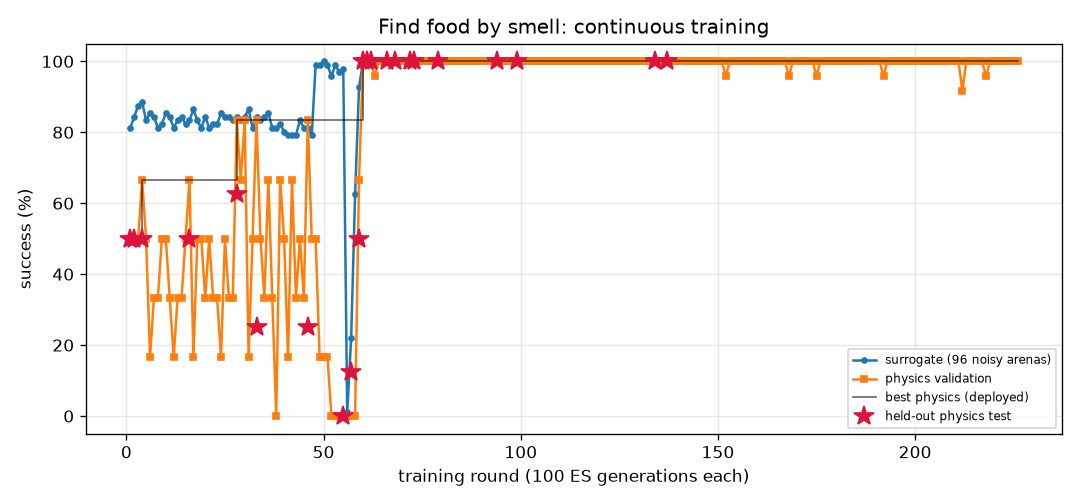
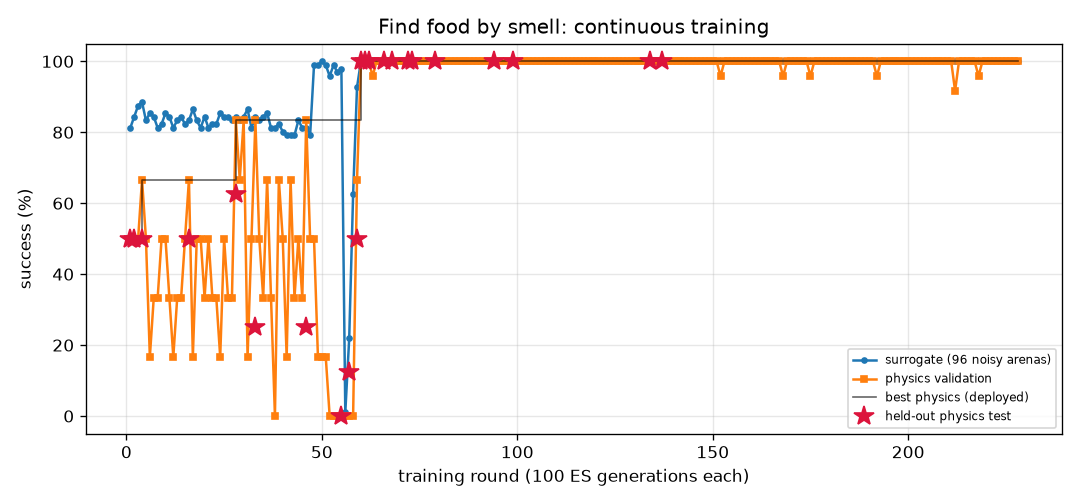
FlyLab: daily review 2026-11-09 — 7/7 optimal, training output

diff --git a/projects/09_flylab/training/turn/REPORT.md b/projects/09_flylab/training/turn/REPORT.md
@@ -1,14 +1,14 @@
 # Turn in place (`turn`) — training report
 
-*Auto-generated by `train_brains.py`, last updated 2026-11-09T18:42:57.*
+*Auto-generated by `train_brains.py`, last updated 2026-11-09T19:15:41.*
 
 ![curve](curve.png)
 
 | | |
 |---|---|
-| rounds | 965 |
-| ES generations | 96500 |
-| physics runs | 23406 |
+| rounds | 970 |
+| ES generations | 97000 |
+| physics runs | 23526 |
 | status | **optimal** |
 | best brain | round 80: physics validation **100%** on 24 arenas, surrogate 100% |
 | held-out physics test | **97%** on 32 unseen arenas (95% CI 84%-99%) (errors: [1.6, 3.3, 6.3, 3.7, 1.1, 0.4, 2.4, 2.9, 0.1, 2.6, 0.5, 2.7, 1.5, 3.1, 4.5, 0.2, 0.5, 1.1, 2.0, 4.4, 2.8, 3.2, 0.3, 2.2, 0.5, 3.0, 0.3, 5.4, 0.4, 1.0, 4.7, 10.7]) |
@@ -17,11 +17,6 @@ Physics error per arena: deg from target heading (< 20 = success).
 
 | round | level | gens | sigma | surrogate | physics val | val errors | test | note |
 |---:|---:|---:|---:|---:|---:|---|---:|---|
-| 926 | 3 | 92600 | 0.025 | 99% | 96% | [4.9, 4.7, 3.0, 0.4, 1.4, 117.7, 3.6, 7.7, 6.0, 0.8, 3.9, 1.3, 3.6, 2.4, 2.7, 0.6, 0.9, 1.3, 2.2, 6.9, 5.0, 0.8, 5.4, 6.2] |  |  |
-| 927 | 3 | 92700 | 0.025 | 98% | 83% | [1.7, 3.6, 5.2, 1.0, 2.6, 3.3, 7.2, 4.4, 7.2, 1.7, 5.7, 0.9, 0.2, 1.6, 4.6, 2.5, 0.7, 1.2, 3.9, 8.5, 4.7, 0.9, 4.4, 3.0] |  |  |
-| 928 | 3 | 92800 | 0.025 | 100% | 83% | [1.6, 2.2, 4.1, 3.2, 0.1, 0.5, 7.1, 8.3, 6.1, 0.7, 5.4, 1.1, 0.4, 2.1, 5.0, 3.2, 0.9, 1.5, 3.3, 1.7, 3.1, 1.4, 6.9, 1.8] |  | restart from best |
-| 929 | 3 | 92900 | 0.024 | 100% | 83% | [7.8, 8.1, 5.2, 1.6, 12.0, 1.3, 4.8, 1.3, 3.9, 0.9, 3.1, 2.5, 1.1, 4.5, 4.3, 1.0, 2.4, 0.1, 1.2, 0.7, 7.1, 0.5, 4.2, 3.5] |  |  |
-| 930 | 3 | 93000 | 0.024 | 99% | 79% | [2.9, 7.4, 2.8, 0.4, 1.8, 1.6, 3.4, 2.4, 5.5, 0.2, 4.0, 0.5, 1.5, 0.9, 3.8, 1.0, 0.6, 0.6, 1.2, 1.6, 3.9, 2.9, 4.2, 5.3] |  |  |
 | 931 | 3 | 93100 | 0.025 | 100% | 88% | [7.1, 10.7, 0.9, 1.1, 3.8, 1.5, 3.3, 5.1, 2.4, 3.0, 3.0, 3.0, 0.5, 5.4, 2.8, 2.6, 2.6, 1.2, 3.8, 1.8, 4.9, 3.6, 2.5, 6.2] |  |  |
 | 932 | 3 | 93200 | 0.024 | 100% | 75% | [5.5, 7.9, 6.3, 0.3, 2.2, 1.1, 5.3, 5.4, 3.3, 0.6, 3.7, 1.0, 0.7, 2.5, 4.0, 1.2, 0.9, 0.7, 0.5, 0.3, 3.4, 1.2, 5.4, 2.7] |  | restart from best |
 | 933 | 3 | 93300 | 0.024 | 99% | 71% | [6.7, 9.2, 7.6, 2.7, 6.2, 0.8, 3.0, 5.7, 1.8, 0.3, 2.8, 3.2, 3.2, 5.8, 2.7, 0.2, 3.7, 0.6, 0.8, 0.4, 6.8, 3.7, 4.2, 1.4] |  |  |
@@ -57,3 +52,8 @@ Physics error per arena: deg from target heading (< 20 = success).
 | 963 | 3 | 96300 | 0.027 | 99% | 79% | [1.8, 5.4, 7.5, 1.1, 1.0, 6.4, 8.1, 8.7, 7.6, 1.9, 6.6, 3.9, 1.5, 0.1, 5.7, 10.7, 4.2, 5.2, 14.5, 6.9, 1.8, 3.0, 8.5, 6.8] |  |  |
 | 964 | 3 | 96400 | 0.025 | 100% | 100% | [3.8, 8.8, 8.4, 5.1, 3.2, 2.9, 1.2, 3.9, 0.9, 4.4, 1.6, 3.0, 5.1, 5.8, 0.5, 4.7, 3.0, 4.1, 4.5, 4.1, 4.6, 1.7, 0.7, 7.5] |  | restart from best |
 | 965 | 3 | 96500 | 0.024 | 99% | 83% | [6.4, 4.8, 5.7, 0.1, 19.2, 17.2, 5.7, 6.2, 7.3, 1.8, 5.3, 2.8, 0.4, 2.3, 4.4, 17.3, 1.5, 5.7, 3.8, 17.2, 103.5, 3.1, 7.2, 7.9] |  |  |
+| 966 | 3 | 96600 | 0.025 | 99% | 83% | [0.2, 0.2, 5.4, 0.5, 2.7, 2.5, 6.5, 9.6, 9.0, 4.2, 5.9, 2.1, 0.9, 0.9, 6.0, 2.3, 2.1, 2.0, 2.4, 4.0, 2.2, 1.5, 7.3, 1.3] |  |  |
+| 967 | 3 | 96700 | 0.025 | 98% | 75% | [5.6, 5.4, 15.8, 0.2, 4.9, 6.0, 9.1, 4.9, 8.1, 2.3, 6.0, 2.5, 0.9, 1.1, 7.3, 4.4, 2.4, 5.8, 5.0, 4.3, 0.9, 1.6, 8.2, 7.3] |  |  |
+| 968 | 3 | 96800 | 0.025 | 100% | 75% | [4.5, 6.8, 5.3, 0.4, 14.2, 3.7, 7.5, 10.1, 7.4, 3.5, 7.2, 3.1, 2.3, 0.7, 6.9, 3.9, 3.2, 4.3, 3.8, 4.3, 2.2, 4.2, 8.2, 6.9] |  | restart from best |
+| 969 | 3 | 96900 | 0.024 | 97% | 92% | [4.2, 5.8, 2.4, 3.7, 5.0, 0.8, 2.7, 6.6, 4.7, 0.8, 2.9, 0.8, 1.7, 3.7, 3.1, 1.1, 0.6, 0.0, 1.2, 1.0, 5.2, 0.1, 4.3, 4.0] |  |  |
+| 970 | 3 | 97000 | 0.026 | 99% | 79% | [4.9, 3.7, 4.7, 2.1, 0.2, 3.0, 6.9, 2.4, 5.8, 0.1, 4.9, 0.2, 1.6, 1.0, 5.7, 2.9, 0.3, 3.8, 2.8, 2.7, 4.9, 0.3, 5.2, 8.5] |  |  |

diff --git a/projects/09_flylab/training/odor_seek/REPORT.md b/projects/09_flylab/training/odor_seek/REPORT.md
@@ -1,14 +1,14 @@
 # Find food by smell (`odor_seek`) — training report
 
-*Auto-generated by `train_brains.py`, last updated 2026-11-09T18:32:41.*
+*Auto-generated by `train_brains.py`, last updated 2026-11-09T19:07:03.*
 
 ![curve](curve.png)
 
 | | |
 |---|---|
-| rounds | 226 |
-| ES generations | 22600 |
-| physics runs | 4854 |
+| rounds | 228 |
+| ES generations | 22800 |
+| physics runs | 4902 |
 | status | **optimal** |
 | best brain | round 137: physics validation **100%** on 24 arenas, surrogate 100% |
 | held-out physics test | **100%** on 32 unseen arenas (95% CI 89%-100%) (errors: [0.14, 0.05, 0.19, 0.15, 0.13, 0.08, 0.06, 0.06, 0.04, 0.06, 0.02, 0.11, 0.05, 0.1, 0.06, 0.01, 0.11, 0.12, 0.14, 0.08, 0.12, 0.06, 0.06, 0.09, 0.12, 0.05, 0.07, 0.07, 0.12, 0.11, 0.06, 0.11]) |
@@ -17,8 +17,6 @@ Physics error per arena: mm from target at the end (< 1.5 and standing still = s
 
 | round | level | gens | sigma | surrogate | physics val | val errors | test | note |
 |---:|---:|---:|---:|---:|---:|---|---:|---|
-| 187 | 3 | 18700 | 0.024 | 100% | 100% | [0.12, 0.18, 0.18, 0.15, 0.17, 0.09, 0.18, 0.2, 0.19, 0.18, 0.28, 0.15, 0.14, 0.18, 0.2, 0.15, 0.16, 0.17, 0.12, 0.19, 0.19, 0.17, 0.19, 0.2] |  |  |
-| 188 | 3 | 18800 | 0.024 | 100% | 100% | [0.12, 0.17, 0.13, 0.12, 0.17, 0.16, 0.11, 0.13, 0.12, 0.14, 0.17, 0.16, 0.19, 0.17, 0.14, 0.12, 0.1, 0.17, 0.12, 0.06, 0.16, 0.16, 0.2, 0.18] |  |  |
 | 189 | 3 | 18900 | 0.024 | 100% | 100% | [0.16, 0.16, 0.14, 0.19, 0.12, 0.08, 0.12, 0.2, 0.12, 0.16, 0.17, 0.2, 0.16, 0.22, 0.18, 0.16, 0.2, 0.18, 0.17, 0.12, 0.13, 0.15, 0.18, 0.19] |  | restart from best |
 | 190 | 3 | 19000 | 0.024 | 100% | 100% | [0.19, 0.17, 0.11, 0.12, 0.1, 0.14, 0.12, 0.18, 0.2, 0.12, 0.18, 0.08, 0.07, 0.18, 0.2, 0.08, 0.09, 0.09, 0.15, 0.14, 0.14, 0.14, 0.07, 0.16] |  |  |
 | 191 | 3 | 19100 | 0.024 | 100% | 100% | [0.1, 0.09, 0.14, 0.09, 0.1, 0.1, 0.08, 0.15, 0.1, 0.1, 0.09, 0.1, 0.08, 0.09, 0.08, 0.08, 0.11, 0.13, 0.17, 0.09, 0.11, 0.16, 0.14, 0.13] |  |  |
@@ -57,3 +55,5 @@ Physics error per arena: mm from target at the end (< 1.5 and standing still = s
 | 224 | 3 | 22400 | 0.024 | 100% | 100% | [0.13, 0.14, 0.08, 0.15, 0.18, 0.12, 0.08, 0.17, 0.08, 0.1, 0.12, 0.08, 0.09, 0.17, 0.18, 0.13, 0.08, 0.14, 0.2, 0.13, 0.16, 0.08, 0.11, 0.09] |  |  |
 | 225 | 3 | 22500 | 0.024 | 100% | 100% | [0.04, 0.13, 0.1, 0.09, 0.05, 0.09, 0.07, 0.11, 0.04, 0.13, 0.04, 0.09, 0.15, 0.09, 0.09, 0.13, 0.09, 0.06, 0.11, 0.07, 0.09, 0.16, 0.08, 0.09] |  | restart from best |
 | 226 | 3 | 22600 | 0.024 | 100% | 100% | [0.13, 0.1, 0.03, 0.11, 0.07, 0.1, 0.02, 0.11, 0.06, 0.05, 0.02, 0.11, 0.02, 0.13, 0.04, 0.08, 0.04, 0.07, 0.06, 0.12, 0.16, 0.15, 0.02, 0.1] |  |  |
+| 227 | 3 | 22700 | 0.024 | 100% | 100% | [0.13, 0.15, 0.15, 0.11, 0.04, 0.12, 0.16, 0.14, 0.21, 0.08, 0.18, 0.16, 0.2, 0.14, 0.18, 0.07, 0.09, 0.12, 0.15, 0.15, 0.19, 0.2, 0.23, 0.15] |  |  |
+| 228 | 3 | 22800 | 0.024 | 100% | 100% | [0.16, 0.21, 0.12, 0.13, 0.16, 0.19, 0.13, 0.27, 0.22, 0.12, 0.13, 0.14, 0.09, 0.11, 0.16, 0.11, 0.13, 0.13, 0.19, 0.18, 0.12, 0.11, 0.2, 0.1] |  |  |

diff --git a/projects/09_flylab/training/odor_avoid/REPORT.md b/projects/09_flylab/training/odor_avoid/REPORT.md
@@ -1,14 +1,14 @@
 # Escape a bad smell (`odor_avoid`) — training report
 
-*Auto-generated by `train_brains.py`, last updated 2026-11-09T15:46:49.*
+*Auto-generated by `train_brains.py`, last updated 2026-11-09T19:16:02.*
 
 ![curve](curve.png)
 
 | | |
 |---|---|
-| rounds | 860 |
-| ES generations | 86000 |
-| physics runs | 17946 |
+| rounds | 861 |
+| ES generations | 86100 |
+| physics runs | 17970 |
 | status | **optimal** |
 | best brain | round 373: physics validation **100%** on 24 arenas, surrogate 97% |
 | held-out physics test | **97%** on 32 unseen arenas (95% CI 84%-99%) (errors: [62.0, 57.4, 62.6, 61.9, 59.0, 61.6, 56.5, 60.7, 31.7, 60.9, 63.1, 57.1, 61.1, 62.1, 61.5, 60.2, 62.2, 55.2, 62.1, 54.2, 61.3, 62.0, 58.0, 61.9, 59.8, 56.5, 56.3, 56.4, 56.3, 57.7, 61.9, 32.4]) |
@@ -17,7 +17,6 @@ Physics error per arena: mm gained away from source (> 6 without first approachi
 
 | round | level | gens | sigma | surrogate | physics val | val errors | test | note |
 |---:|---:|---:|---:|---:|---:|---|---:|---|
-| 821 | 3 | 82100 | 0.027 | 97% | 96% | [62.6, 56.2, 56.3, 56.3, 61.4, 61.6, 60.2, 49.4, 60.2, 61.2, 61.7, 61.3, 55.0, 56.0, 42.2, 60.9, 61.6, 61.8, 54.8, 58.0, 61.3, 60.4, 60.9, 62.0] |  | restart from best |
 | 822 | 3 | 82200 | 0.026 | 97% | 100% | [63.3, 61.1, 57.4, 57.0, 62.3, 60.7, 61.8, 55.7, 60.8, 60.3, 62.1, 61.6, 55.2, 57.7, 45.1, 62.0, 62.4, 61.8, 54.9, 58.4, 62.4, 60.6, 58.4, 57.4] |  |  |
 | 823 | 3 | 82300 | 0.026 | 96% | 100% | [63.1, 61.0, 56.3, 59.4, 60.6, 60.8, 61.8, 24.9, 61.2, 52.4, 57.1, 61.5, 49.1, 55.6, 33.1, 61.4, 61.6, 59.3, 52.4, 56.1, 61.4, 51.7, 59.0, 62.5] |  |  |
 | 824 | 3 | 82400 | 0.026 | 95% | 96% | [62.5, 59.9, 57.7, 60.9, 61.7, 60.0, 61.3, 51.8, 60.5, 57.2, 61.6, 61.2, 53.9, 55.5, 41.3, 62.1, 61.4, 61.6, 54.9, 56.8, 61.4, 59.7, 58.2, 47.3] |  |  |
@@ -57,3 +56,4 @@ Physics error per arena: mm gained away from source (> 6 without first approachi
 | 858 | 3 | 85800 | 0.026 | 94% | 100% | [61.0, 56.5, 55.9, 60.9, 37.4, 55.9, 61.5, 23.2, 61.6, 49.3, 39.8, 61.1, 40.5, 53.8, 33.6, 56.3, 61.5, 53.5, 48.6, 58.6, 61.3, 60.5, 60.3, 59.8] |  |  |
 | 859 | 3 | 85900 | 0.028 | 94% | 100% | [60.8, 58.1, 56.0, 58.7, 41.2, 52.2, 61.5, 57.3, 60.5, 57.7, 51.6, 61.3, 9.0, 54.1, 36.3, 61.2, 60.5, 53.0, 49.2, 57.7, 60.3, 37.6, 59.1, 60.6] |  |  |
 | 860 | 3 | 86000 | 0.028 | 97% | 92% | [60.2, 56.2, 52.8, 55.6, 58.8, 58.7, 58.0, 58.3, 58.6, 57.4, 48.6, 59.5, 0.0, 51.4, 33.5, 57.0, 59.1, 58.0, 48.7, 52.5, 58.6, 59.0, 55.4, 59.0] |  |  |
+| 861 | 3 | 86100 | 0.026 | 96% | 92% | [59.2, 52.1, 55.3, 52.0, 58.4, 59.3, 57.3, 53.4, 57.5, 54.6, 46.8, 59.7, 43.1, 53.1, 27.8, 60.2, 59.8, 59.2, 48.1, 51.9, 59.6, 56.6, 52.2, 57.5] |  | restart from best |

diff --git a/projects/09_flylab/training/TRAINING.md b/projects/09_flylab/training/TRAINING.md
@@ -1,15 +1,15 @@
 # FlyLab brains — continuous training log
 
-*Auto-generated by `train_brains.py`, last updated 2026-11-09T18:42:57.*
+*Auto-generated by `train_brains.py`, last updated 2026-11-09T19:16:02.*
 
 Every skill has its own brain and its own training process: surrogate ES rounds, physics validation in MuJoCo, keep-the-best selection, and a held-out physics test that is never used for selection. See each skill's report for its full round-by-round history. Mastery is progressive: passing a level (100% physics validation, >=95% surrogate) doubles the validation and test arena sets; a brain is **optimal** once it holds up at level 3 (>=95% of 24 validation arenas) AND scores >=90% on the 32 held-out test arenas. Test columns show 95% Wilson confidence intervals.
 
 | skill | rounds | ES generations | physics runs | surrogate | physics val | **physics test** | status |
 |---|---:|---:|---:|---:|---:|---:|---|
 | [Walk forward](walk_forward/REPORT.md) | 350 | 35000 | 8414 | 100% | 100% of 24 | 100% of 32 (CI 89-100%) | **optimal** |
-| [Turn in place](turn/REPORT.md) | 965 | 96500 | 23406 | 100% | 100% of 24 | 97% of 32 (CI 84-99%) | **optimal** |
+| [Turn in place](turn/REPORT.md) | 970 | 97000 | 23526 | 100% | 100% of 24 | 97% of 32 (CI 84-99%) | **optimal** |
 | [Go to a location](goto/REPORT.md) | 279 | 27900 | 6646 | 100% | 100% of 24 | 100% of 32 (CI 89-100%) | **optimal** |
-| [Find food by smell](odor_seek/REPORT.md) | 226 | 22600 | 4854 | 100% | 100% of 24 | 100% of 32 (CI 89-100%) | **optimal** |
-| [Escape a bad smell](odor_avoid/REPORT.md) | 860 | 86000 | 17946 | 97% | 100% of 24 | 97% of 32 (CI 84-99%) | **optimal** |
+| [Find food by smell](odor_seek/REPORT.md) | 228 | 22800 | 4902 | 100% | 100% of 24 | 100% of 32 (CI 89-100%) | **optimal** |
+| [Escape a bad smell](odor_avoid/REPORT.md) | 861 | 86100 | 17970 | 97% | 100% of 24 | 97% of 32 (CI 84-99%) | **optimal** |
 | [Walk toward light](light_seek/REPORT.md) | 474 | 47400 | 8256 | 100% | 100% of 24 | 100% of 32 (CI 89-100%) | **optimal** |
 | [Hide from light](light_avoid/REPORT.md) | 595 | 59500 | 14552 | 100% | 100% of 24 | 100% of 32 (CI 89-100%) | **optimal** |
